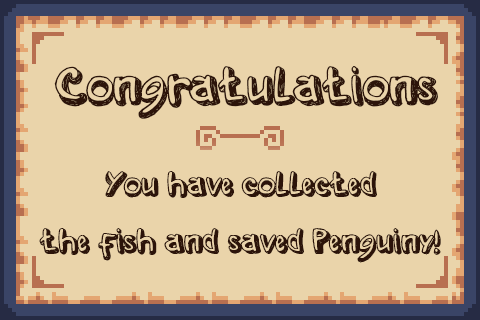
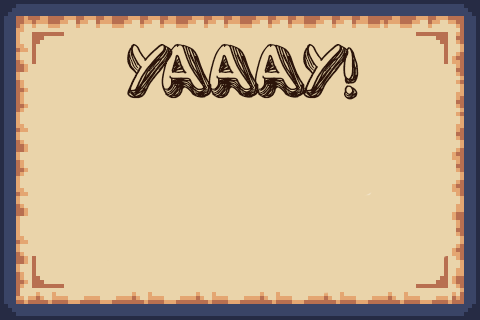
ALPHA VERSION RELEASE

diff --git a/BabyYodaGame/WonWindow.xaml b/BabyYodaGame/WonWindow.xaml
@@ -5,16 +5,18 @@
         xmlns:mc="http://schemas.openxmlformats.org/markup-compatibility/2006"
         xmlns:local="clr-namespace:BabyYodaGame"
         mc:Ignorable="d"
-        Title="WonWindow" Height="400" Width="550" Icon="/Resources/goldenFish.png" ResizeMode="NoResize">
+        Title="WonWindow" Height="400" Width="550" Icon="/Resources/goldenFish.png" ResizeMode="NoResize"
+        Loaded="Window_Loaded">
     <Grid>
         <Grid.Background>
             <ImageBrush ImageSource="/Resources/wonUI.png"/>
         </Grid.Background>
-
-        <Canvas>
-            <Border BorderBrush="#FFB86F50" BorderThickness="2.25" CornerRadius="10" Canvas.Left="196" Canvas.Top="310" HorizontalAlignment="Center" VerticalAlignment="Top" Width="158" Height="26">
-                <Button Name="playBttn" Width="70" Height="22" Content="Play Again" FontFamily="Palatino Linotype" FontWeight="Bold" HorizontalAlignment="Center" VerticalAlignment="Center" Canvas.Left="190" Canvas.Top="210" Background="{x:Null}" BorderBrush="{x:Null}" RenderTransformOrigin="0.639,1.646" Click="playBttn_Click" Foreground="#FF782D2D"/>
-            </Border>
-        </Canvas>
+        <Rectangle x:Name="penguiny" RenderTransformOrigin="0.499,0.501" Margin="233,22,0,45">
+            <Rectangle.Fill>
+                <ImageBrush ImageSource="/Resources/penguin_1.png" Stretch="Fill"/>
+            </Rectangle.Fill>
+        </Rectangle>
+        <Canvas/>
+        <Label x:Name="txtLbl" Content="You've saved Penguiny from" HorizontalAlignment="Left" Margin="90,146,0,0" VerticalAlignment="Top" FontFamily="Palatino Linotype" FontStyle="Italic" FontWeight="Bold"/>
     </Grid>
 </Window>

diff --git a/BabyYodaGame/MainWindow.xaml b/BabyYodaGame/MainWindow.xaml
@@ -26,7 +26,7 @@
                     Content="Play again" 
                     Canvas.Left="348" 
                     Canvas.Top="5" 
-                    Background="{x:Null}" 
+                    Background="#FFEAD4AA" 
                     BorderBrush="{x:Null}" 
                     FontSize="22" 
                     FontFamily="Palatino Linotype" 
@@ -50,7 +50,7 @@
                     VerticalAlignment="Center"
                     Click="showHistoryBttn_Click" />
             <Label x:Name="scoreLbl" Content="0/00" FontFamily="Segoe UI" FontSize="25" FontWeight="Bold" Canvas.Left="520" Width="64" HorizontalContentAlignment="Center" VerticalContentAlignment="Center" Foreground="#FF761E1E" Canvas.Top="5" HorizontalAlignment="Left" VerticalAlignment="Center"/>
-            <Label x:Name="coords" Content="corrdinates" Canvas.Left="198" Canvas.Top="14"/>
+            <Label x:Name="coords" Content="corrdinates" Canvas.Left="451" Canvas.Top="367"/>
         </Canvas>
     </Grid>
 </Window>

diff --git a/BabyYodaGame/MainWindow.xaml.cs b/BabyYodaGame/MainWindow.xaml.cs
@@ -31,10 +31,10 @@ namespace BabyYodaGame
         List<BitmapImage> spritesHappyPenguin = new List<BitmapImage>();
 
         ImageBrush animationBrush = new ImageBrush();
-        
+
         ImageBrush backgroundCaptive = new ImageBrush();
         ImageBrush backgroundFree = new ImageBrush();
-        
+
         DispatcherTimer gameTimer = new DispatcherTimer();
         DispatcherTimer animationTimer = new DispatcherTimer();
         DispatcherTimer staticAnimationTimer = new DispatcherTimer();
@@ -46,7 +46,7 @@ namespace BabyYodaGame
 
         string direction = "idle";
         Random rndm = new Random();
-        private const int step = 3;
+        private const int step = 4;
 
         int[] indexes = new int[4] { 0, 0, 0, 0 }; // Used for animation order. Index order: up, down, left, right
         int indexPenguinAnimation = 0;
@@ -87,6 +87,9 @@ namespace BabyYodaGame
             // sets initial position for player
             Canvas.SetLeft(player, 50);
             Canvas.SetTop(player, 50);
+
+            playAgainBttn.IsEnabled = false;
+            
         }
 
         private void Window_Loaded(object sender, RoutedEventArgs e)
@@ -96,7 +99,7 @@ namespace BabyYodaGame
 
         private void TickOnPlayingGame(object sender, EventArgs e)
         {
-              Walk();
+            Walk();
             CheckIfEats();
         }
 
@@ -145,9 +148,14 @@ namespace BabyYodaGame
 
         private void Walk() //animation included
         {
-            coords.Content = $"\nw: {MyCanvas.Width} h: {MyCanvas.Height} \nplayer {playerPos.X} {playerPos.Y}\nplayerPos Middle {playerPosCenter.X} {playerPosCenter.Y}\n ";
-            coords.Content += $"fishPos {currentFishPos.X} {currentFishPos.Y}";
+            coords.Content = $"\nwidht: {MyCanvas.Width} height: {MyCanvas.Height}";
+            coords.Content += $"\nplayer position: {playerPos.X} {playerPos.Y}";
+            coords.Content += $"\nplayer hitbox center: {playerPosCenter.X} {playerPosCenter.Y}";
+            coords.Content += $"\nfish position: {currentFishPos.X} {currentFishPos.Y}";
+            coords.Content += $"\nfish eaten: {fishEatenCount}/{objectiveNumber}";
+            coords.Content += $"\nfish generated: {isFishGenerated}";
             coords.Content += $"\nWon: {isWon}";
+
 
             switch (direction.ToLower())
             {
@@ -164,7 +172,7 @@ namespace BabyYodaGame
                     }
                     break;
                 case "down":
-                    if (playerPos.Y <= 675)
+                    if (isWon && playerPos.Y <= 675)
                     {
                         Canvas.SetTop(player, Canvas.GetTop(player) + step);
                         animationBrush.ImageSource = spritesDown[indexes[1]];
@@ -172,6 +180,19 @@ namespace BabyYodaGame
                         indexes[1]++;
                         if (indexes[1] == spritesDown.Count - 1)
                             indexes[1] = 0;
+
+                    }
+                    else
+                    {
+                        if (playerPos.Y <= 675 && !(playerPos.X >= 770 && playerPos.Y >= 505))
+                        {
+                            Canvas.SetTop(player, Canvas.GetTop(player) + step);
+                            animationBrush.ImageSource = spritesDown[indexes[1]];
+                            player.Fill = animationBrush;
+                            indexes[1]++;
+                            if (indexes[1] == spritesDown.Count - 1)
+                                indexes[1] = 0;
+                        }
                     }
                     break;
                 case "left":
@@ -186,7 +207,8 @@ namespace BabyYodaGame
                     }
                     break;
                 case "right":
-                    if (playerPos.X <= 1050)
+
+                    if (isWon && playerPos.X <= 1000)
                     {
                         Canvas.SetLeft(player, Canvas.GetLeft(player) + step);
                         animationBrush.ImageSource = spritesRight[indexes[3]];
@@ -194,6 +216,18 @@ namespace BabyYodaGame
                         indexes[3]++;
                         if (indexes[3] == spritesRight.Count - 1)
                             indexes[3] = 0;
+                    }
+                    else
+                    {
+                        if (playerPos.X <= 1000 && !(playerPos.X >= 770 && playerPos.Y >= 505))
+                        {
+                            Canvas.SetLeft(player, Canvas.GetLeft(player) + step);
+                            animationBrush.ImageSource = spritesRight[indexes[3]];
+                            player.Fill = animationBrush;
+                            indexes[3]++;
+                            if (indexes[3] == spritesRight.Count - 1)
+                                indexes[3] = 0;
+                        }
                     }
                     break;
             }
@@ -209,8 +243,15 @@ namespace BabyYodaGame
                 Name = "Fish"
             };
 
-            int x = rndm.Next(50, (int)this.ActualWidth - 64);
-            int y = rndm.Next(50, (int)this.ActualHeight - 64);
+            int x = -1, y = -1;
+
+            do
+            {
+                x = rndm.Next(70, 990);
+                y = rndm.Next(70, 650);
+            }
+            while (x >= 750 && y >= 490);
+
             currentFishPos = new Point(x, y);
             Canvas.SetTop(rec, y);
             Canvas.SetLeft(rec, x);
@@ -219,6 +260,7 @@ namespace BabyYodaGame
             MyCanvas.Children.Add(rec);
 
         }
+
         private void CheckIfEats()
         {
             playerPos = new Point(Canvas.GetLeft(player), Canvas.GetTop(player));
@@ -251,6 +293,7 @@ namespace BabyYodaGame
                 WonWindow wonWindow = new WonWindow();
                 wonWindow.Show();
                 MyCanvas.Background = backgroundFree;
+                playAgainBttn.IsEnabled = true;
             }
         }
 
@@ -258,14 +301,20 @@ namespace BabyYodaGame
         {
             indexPenguinAnimation++;
 
-            if (indexPenguinAnimation == spritesCryingPenguin.Count - 1)
-                indexPenguinAnimation = 0;
+            
 
-            if (isWon) 
+            if (isWon)
+            {
+                if (indexPenguinAnimation >= spritesHappyPenguin.Count - 1)
+                    indexPenguinAnimation = 0;
                 penguin.Fill = new ImageBrush() { ImageSource = spritesHappyPenguin[indexPenguinAnimation] };
+            }
             else
+            {
+                if (indexPenguinAnimation >= spritesCryingPenguin.Count - 1)
+                    indexPenguinAnimation = 0;
                 penguin.Fill = new ImageBrush() { ImageSource = spritesCryingPenguin[indexPenguinAnimation] };
-
+            }
 
         }
 
@@ -284,6 +333,11 @@ namespace BabyYodaGame
             fishEatenCount = 0;
             isWon = false;
             isFishGenerated = false;
+            MyCanvas.Background = backgroundCaptive;
+            objectiveNumber = rndm.Next(1, 5);
+            scoreLbl.Content = $"{fishEatenCount}/{objectiveNumber}";
+            gameTimer.Start();
+            playAgainBttn.IsEnabled = false;
 
         }
 

diff --git a/BabyYodaGame/WonWindow.xaml.cs b/BabyYodaGame/WonWindow.xaml.cs
@@ -10,6 +10,7 @@ using System.Windows.Input;
 using System.Windows.Media;
 using System.Windows.Media.Imaging;
 using System.Windows.Shapes;
+using System.Windows.Threading;
 using BabyYodaGame.Properties;
 
 namespace BabyYodaGame
@@ -22,11 +23,43 @@ namespace BabyYodaGame
         public WonWindow()
         {
             InitializeComponent();
+            txtLbl.Content = "You've successfully saved Penguiny\n" +
+                "the nasty pirates! Yay you're a hero!"; ;
         }
 
-        private void playBttn_Click(object sender, RoutedEventArgs e)
+        DispatcherTimer animationTimer = new DispatcherTimer();
+        List<BitmapImage> spritesHappyPenguin;
+        private void Window_Loaded(object sender, RoutedEventArgs e)
         {
-            
+            animationTimer.Interval = TimeSpan.FromMilliseconds(50);
+            animationTimer.Tick += PlayAnimation;
+            animationTimer.Start();
+            spritesHappyPenguin = new List<BitmapImage>();
+            spritesHappyPenguin.Add(new BitmapImage(new Uri("pack://application:,,,/Resources/penguin_1.png")));
+            spritesHappyPenguin.Add(new BitmapImage(new Uri("pack://application:,,,/Resources/penguin_2.png")));
+            spritesHappyPenguin.Add(new BitmapImage(new Uri("pack://application:,,,/Resources/penguin_3.png")));
+            spritesHappyPenguin.Add(new BitmapImage(new Uri("pack://application:,,,/Resources/penguin_4.png")));
+            spritesHappyPenguin.Add(new BitmapImage(new Uri("pack://application:,,,/Resources/penguin_5.png")));
+            spritesHappyPenguin.Add(new BitmapImage(new Uri("pack://application:,,,/Resources/penguin_6.png")));
+            spritesHappyPenguin.Add(new BitmapImage(new Uri("pack://application:,,,/Resources/penguin_7.png")));
+            spritesHappyPenguin.Add(new BitmapImage(new Uri("pack://application:,,,/Resources/penguin_8.png")));
+            spritesHappyPenguin.Add(new BitmapImage(new Uri("pack://application:,,,/Resources/penguin_9.png")));
+            spritesHappyPenguin.Add(new BitmapImage(new Uri("pack://application:,,,/Resources/penguin_10.png")));
+            spritesHappyPenguin.Add(new BitmapImage(new Uri("pack://application:,,,/Resources/penguin_11.png")));
+            spritesHappyPenguin.Add(new BitmapImage(new Uri("pack://application:,,,/Resources/penguin_12.png")));
+
+        }
+        int index = 0;
+        private void PlayAnimation(object sender, EventArgs e)
+        {
+            index++;
+            if (index >= spritesHappyPenguin.Count)
+                index = 0;
+
+            ImageBrush br = new ImageBrush();
+            br.ImageSource = spritesHappyPenguin[index];
+
+            penguiny.Fill = br;
         }
     }
 }

diff --git a/BabyYodaGame/Properties/Resources.Designer.cs b/BabyYodaGame/Properties/Resources.Designer.cs
@@ -203,16 +203,6 @@ namespace BabyYodaGame.Properties {
         /// <summary>
         ///   Looks up a localized resource of type System.Byte[].
         /// </summary>
-        internal static byte[] map_ready {
-            get {
-                object obj = ResourceManager.GetObject("map_ready", resourceCulture);
-                return ((byte[])(obj));
-            }
-        }
-        
-        /// <summary>
-        ///   Looks up a localized resource of type System.Byte[].
-        /// </summary>
         internal static byte[] map_ready_captive {
             get {
                 object obj = ResourceManager.GetObject("map_ready_captive", resourceCulture);
